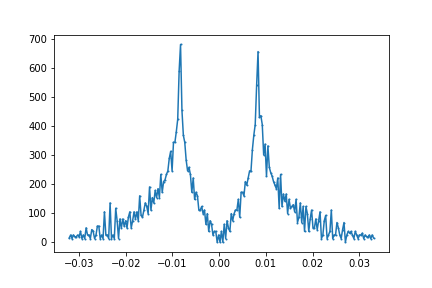
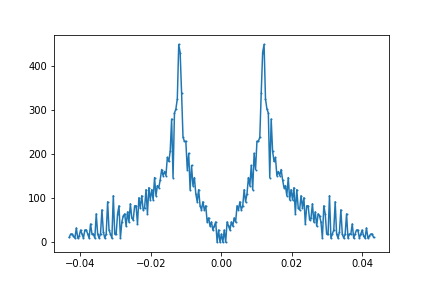
data for high resolution sweep

diff --git a/Mods/Bubble_ep.py b/Mods/Bubble_ep.py
@@ -625,7 +625,7 @@ def main() -> int:
     
     #Lattice parameters 
     #lattices with different normalizations 
-    theta=modulation_thet*1.05*np.pi/180  # magic angle 
+    theta=modulation_thet*np.pi/180  # magic angle 
     l=MoireLattice.MoireTriangLattice(Nsamp,theta,0) 
     lq=MoireLattice.MoireTriangLattice(Nsamp,theta,2) #this one 
     [KX,KY]=lq.Generate_lattice()
@@ -649,22 +649,22 @@ def main() -> int:
     PH=True
     
     #JY params 
-    hbvf = 2.7; # eV
-    hvkd=hbvf*q
-    kappa=modulation_kap*0.75
-    up = 0.105; # eV
-    u = kappa*up; # eV
-    alpha=up/hvkd
-    alph=alpha
-
-    #Andrei params 
-    # hbvf = 19.81/(8*np.pi/3); # eV
+    # hbvf = (3/(2*np.sqrt(3)))*2.7; # eV
     # hvkd=hbvf*q
-    # kappa=modulation_kap*1
-    # up = 0.110; # eV
+    # kappa=modulation_kap*0.75
+    # up = 0.105; # eV
     # u = kappa*up; # eV
     # alpha=up/hvkd
     # alph=alpha
+
+    #Andrei params 
+    hbvf = 19.81/(8*np.pi/3); # eV
+    hvkd=hbvf*q
+    kappa=modulation_kap*1
+    up = 0.110; # eV
+    u = kappa*up; # eV
+    alpha=up/hvkd
+    alph=alpha
     
     print("hbvf is ..",hbvf )
     print("q is...", q)
@@ -673,82 +673,82 @@ def main() -> int:
     print("alpha is..", alph)
     print("the twist angle is ..", theta)
 
-    #electron parameters
-    nbands=2
-    hbarc=0.1973269804*1e-6 #ev*m
-    alpha=137.0359895 #fine structure constant
-    a_graphene=2.458*(1e-10) #in meters this is the lattice constant NOT the carbon-carbon distance
-    e_el=1.6021766*(10**(-19))  #in joule/ev
-    ee2=(hbarc/a_graphene)/alpha
-    kappa_di=3.03
+    # #electron parameters
+    # nbands=2
+    # hbarc=0.1973269804*1e-6 #ev*m
+    # alpha=137.0359895 #fine structure constant
+    # a_graphene=2.458*(1e-10) #in meters this is the lattice constant NOT the carbon-carbon distance
+    # e_el=1.6021766*(10**(-19))  #in joule/ev
+    # ee2=(hbarc/a_graphene)/alpha
+    # kappa_di=3.03
 
-    #phonon parameters
-    c_light=299792458 #m/s
-    M=1.99264687992e-26 * (c_light*c_light/e_el) # [in units of eV]
-    mass=M/(c_light**2) # in ev *s^2/m^2
-    hhbar=6.582119569e-16 #(in eV s)
-    alpha_ep=0*2# in ev
-    beta_ep=4 #in ev SHOULD ALWAYS BE GREATER THAN ZERO
-    c_phonon=21400 #m/s
+    # #phonon parameters
+    # c_light=299792458 #m/s
+    # M=1.99264687992e-26 * (c_light*c_light/e_el) # [in units of eV]
+    # mass=M/(c_light**2) # in ev *s^2/m^2
+    # hhbar=6.582119569e-16 #(in eV s)
+    # alpha_ep=0*2# in ev
+    # beta_ep=4 #in ev SHOULD ALWAYS BE GREATER THAN ZERO
+    # c_phonon=21400 #m/s
     
-    #calculating effective coupling
-    A1mbz=lq.VolMBZ*((q**2)/(a_graphene**2))
-    AWZ_graphene=np.sqrt(3)*a_graphene*a_graphene/2
-    A1bz=(2*np.pi)**2 / AWZ_graphene
-    alpha_ep_effective=np.sqrt(1/2)*np.sqrt(A1mbz/A1bz)*alpha_ep #sqrt 1/2 from 2 atoms per unit cell in graphene
-    beta_ep_effective=np.sqrt(1/2)*np.sqrt(A1mbz/A1bz)*beta_ep #sqrt 1/2 from 2 atoms per unit cell in graphene
-    alpha_ep_effective_tilde=alpha_ep_effective/beta_ep_effective
-    beta_ep_effective_tilde=beta_ep_effective/beta_ep_effective
+    # #calculating effective coupling
+    # A1mbz=lq.VolMBZ*((q**2)/(a_graphene**2))
+    # AWZ_graphene=np.sqrt(3)*a_graphene*a_graphene/2
+    # A1bz=(2*np.pi)**2 / AWZ_graphene
+    # alpha_ep_effective=np.sqrt(1/2)*np.sqrt(A1mbz/A1bz)*alpha_ep #sqrt 1/2 from 2 atoms per unit cell in graphene
+    # beta_ep_effective=np.sqrt(1/2)*np.sqrt(A1mbz/A1bz)*beta_ep #sqrt 1/2 from 2 atoms per unit cell in graphene
+    # alpha_ep_effective_tilde=alpha_ep_effective/beta_ep_effective
+    # beta_ep_effective_tilde=beta_ep_effective/beta_ep_effective
     
-    #testing the orders of magnitude for the dimensionless velocity squared
-    qq=q/a_graphene
-    Wupsilon=(beta_ep_effective**2)*qq*qq
-    W=0.008
-    ctilde=W*(qq**2)*(mass)*(c_phonon**2)/Wupsilon
-    print("phonon params", Wupsilon )
-    print("phonon params upsilon", Wupsilon/W )
-    print("area ratio", A1mbz/A1bz, (2*np.sin(theta/2))**2   )
-    print("correct factor by which the interaction is reduced",np.sqrt(2)/(2*np.sin(theta/2)))
-    print("c tilde",np.sqrt((Wupsilon/W)*(1/(qq**2))*(1/mass) ))
+    # #testing the orders of magnitude for the dimensionless velocity squared
+    # qq=q/a_graphene
+    # Wupsilon=(beta_ep_effective**2)*qq*qq
+    # W=0.008
+    # ctilde=W*(qq**2)*(mass)*(c_phonon**2)/Wupsilon
+    # print("phonon params", Wupsilon )
+    # print("phonon params upsilon", Wupsilon/W )
+    # print("area ratio", A1mbz/A1bz, (2*np.sin(theta/2))**2   )
+    # print("correct factor by which the interaction is reduced",np.sqrt(2)/(2*np.sin(theta/2)))
+    # print("c tilde",np.sqrt((Wupsilon/W)*(1/(qq**2))*(1/mass) ))
     
-    #parameters to be passed to the Bubble class
-    mode_layer_symmetry="a" #whether we are looking at the symmetric or the antisymmetric mode
-    cons=[alpha_ep_effective_tilde,beta_ep_effective_tilde, Wupsilon, a_graphene, mass] #constants used in the bubble calculation and data anlysis
+    # #parameters to be passed to the Bubble class
+    # mode_layer_symmetry="a" #whether we are looking at the symmetric or the antisymmetric mode
+    # cons=[alpha_ep_effective_tilde,beta_ep_effective_tilde, Wupsilon, a_graphene, mass] #constants used in the bubble calculation and data anlysis
 
 
-    hpl=Hamiltonian.Ham_BM_p(hvkd, alph, 1, lq, kappa, PH)
-    hmin=Hamiltonian.Ham_BM_m(hvkd, alph, -1, lq, kappa, PH)
+    # hpl=Hamiltonian.Ham_BM_p(hvkd, alph, 1, lq, kappa, PH)
+    # hmin=Hamiltonian.Ham_BM_m(hvkd, alph, -1, lq, kappa, PH)
     
-    #CALCULATING FILLING AND CHEMICAL POTENTIAL ARRAYS
-    Ndos=100
-    ldos=MoireLattice.MoireTriangLattice(Ndos,theta,2)
-    [ Kxp, Kyp]=ldos.Generate_lattice()
-    disp=Hamiltonian.Dispersion( ldos, nbands, hpl, hmin)
-    Nfils=20
-    # [fillings,mu_values]=disp.mu_filling_array(Nfils, True, False, False) #read write calculate kappa
-    [fillings,mu_values]=disp.mu_filling_array(Nfils, False, True, True) #read write calculate theta
-    filling_index=int(sys.argv[1]) 
-    mu=mu_values[filling_index]
-    filling=fillings[filling_index]
-    print("CHEMICAL POTENTIAL AND FILLING", mu, filling)
+    # #CALCULATING FILLING AND CHEMICAL POTENTIAL ARRAYS
+    # Ndos=100
+    # ldos=MoireLattice.MoireTriangLattice(Ndos,theta,2)
+    # [ Kxp, Kyp]=ldos.Generate_lattice()
+    # disp=Hamiltonian.Dispersion( ldos, nbands, hpl, hmin)
+    # Nfils=20
+    # # [fillings,mu_values]=disp.mu_filling_array(Nfils, True, False, False) #read write calculate kappa
+    # [fillings,mu_values]=disp.mu_filling_array(Nfils, False, True, True) #read write calculate theta
+    # filling_index=int(sys.argv[1]) 
+    # mu=mu_values[filling_index]
+    # filling=fillings[filling_index]
+    # print("CHEMICAL POTENTIAL AND FILLING", mu, filling)
     
     
-    #BUBBLE CALCULATION
-    test_symmetry=True
-    B1=ep_Bubble(lq, nbands, hpl, hmin,  mode_layer_symmetry, mode, cons, test_symmetry, umkl)
-    # omega=[1e-14]
-    # kpath=np.array([KX,KY]).T
-    # integ=B1.Compute(mu, omega, kpath)
-    # popt, res, c, resc=B1.extract_cs( integ, 0.2)
-    # B1.plot_res(Wupsilon*integ, KX, KY, VV, filling, Nsamp, c , res, "")
-    # print(np.mean(popt),c, resc, c_phonon)
-    # print("effective speed of sound down renormalization...", c)
-    # print("residual of the fit...", res)
-    B1.Fill_sweep(fillings, mu_values, VV, Nsamp, c_phonon,theta)
+    # #BUBBLE CALCULATION
+    # test_symmetry=True
+    # B1=ep_Bubble(lq, nbands, hpl, hmin,  mode_layer_symmetry, mode, cons, test_symmetry, umkl)
+    # # omega=[1e-14]
+    # # kpath=np.array([KX,KY]).T
+    # # integ=B1.Compute(mu, omega, kpath)
+    # # popt, res, c, resc=B1.extract_cs( integ, 0.2)
+    # # B1.plot_res(Wupsilon*integ, KX, KY, VV, filling, Nsamp, c , res, "")
+    # # print(np.mean(popt),c, resc, c_phonon)
+    # # print("effective speed of sound down renormalization...", c)
+    # # print("residual of the fit...", res)
+    # B1.Fill_sweep(fillings, mu_values, VV, Nsamp, c_phonon,theta)
 
     
     
-    return 0
+    # return 0
 
 if __name__ == '__main__':
     sys.exit(main())  # next section explains the use of sys.exit
